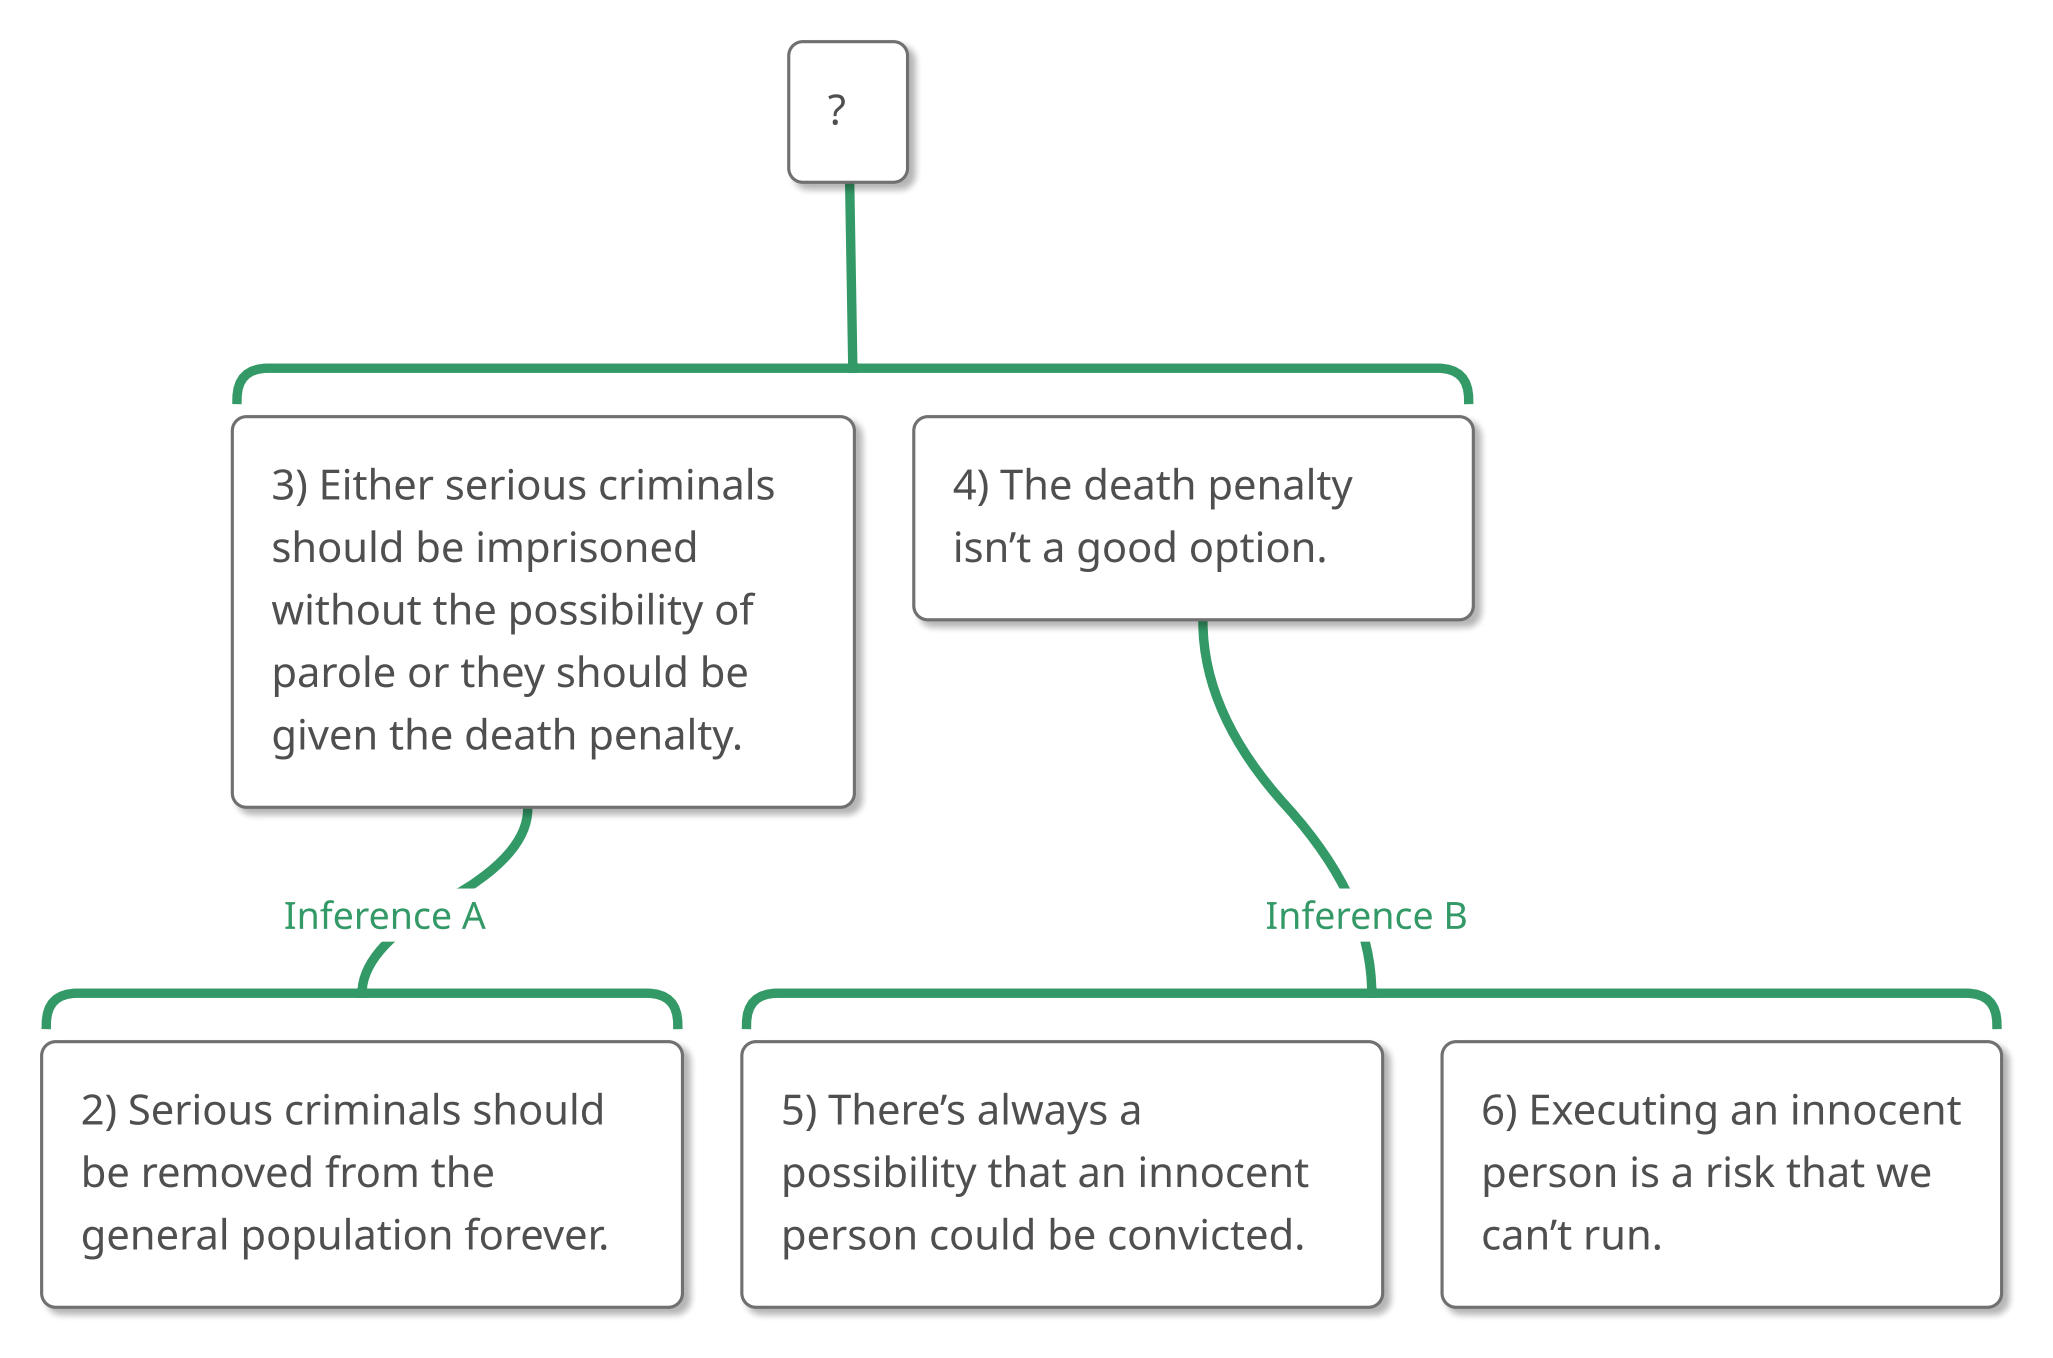
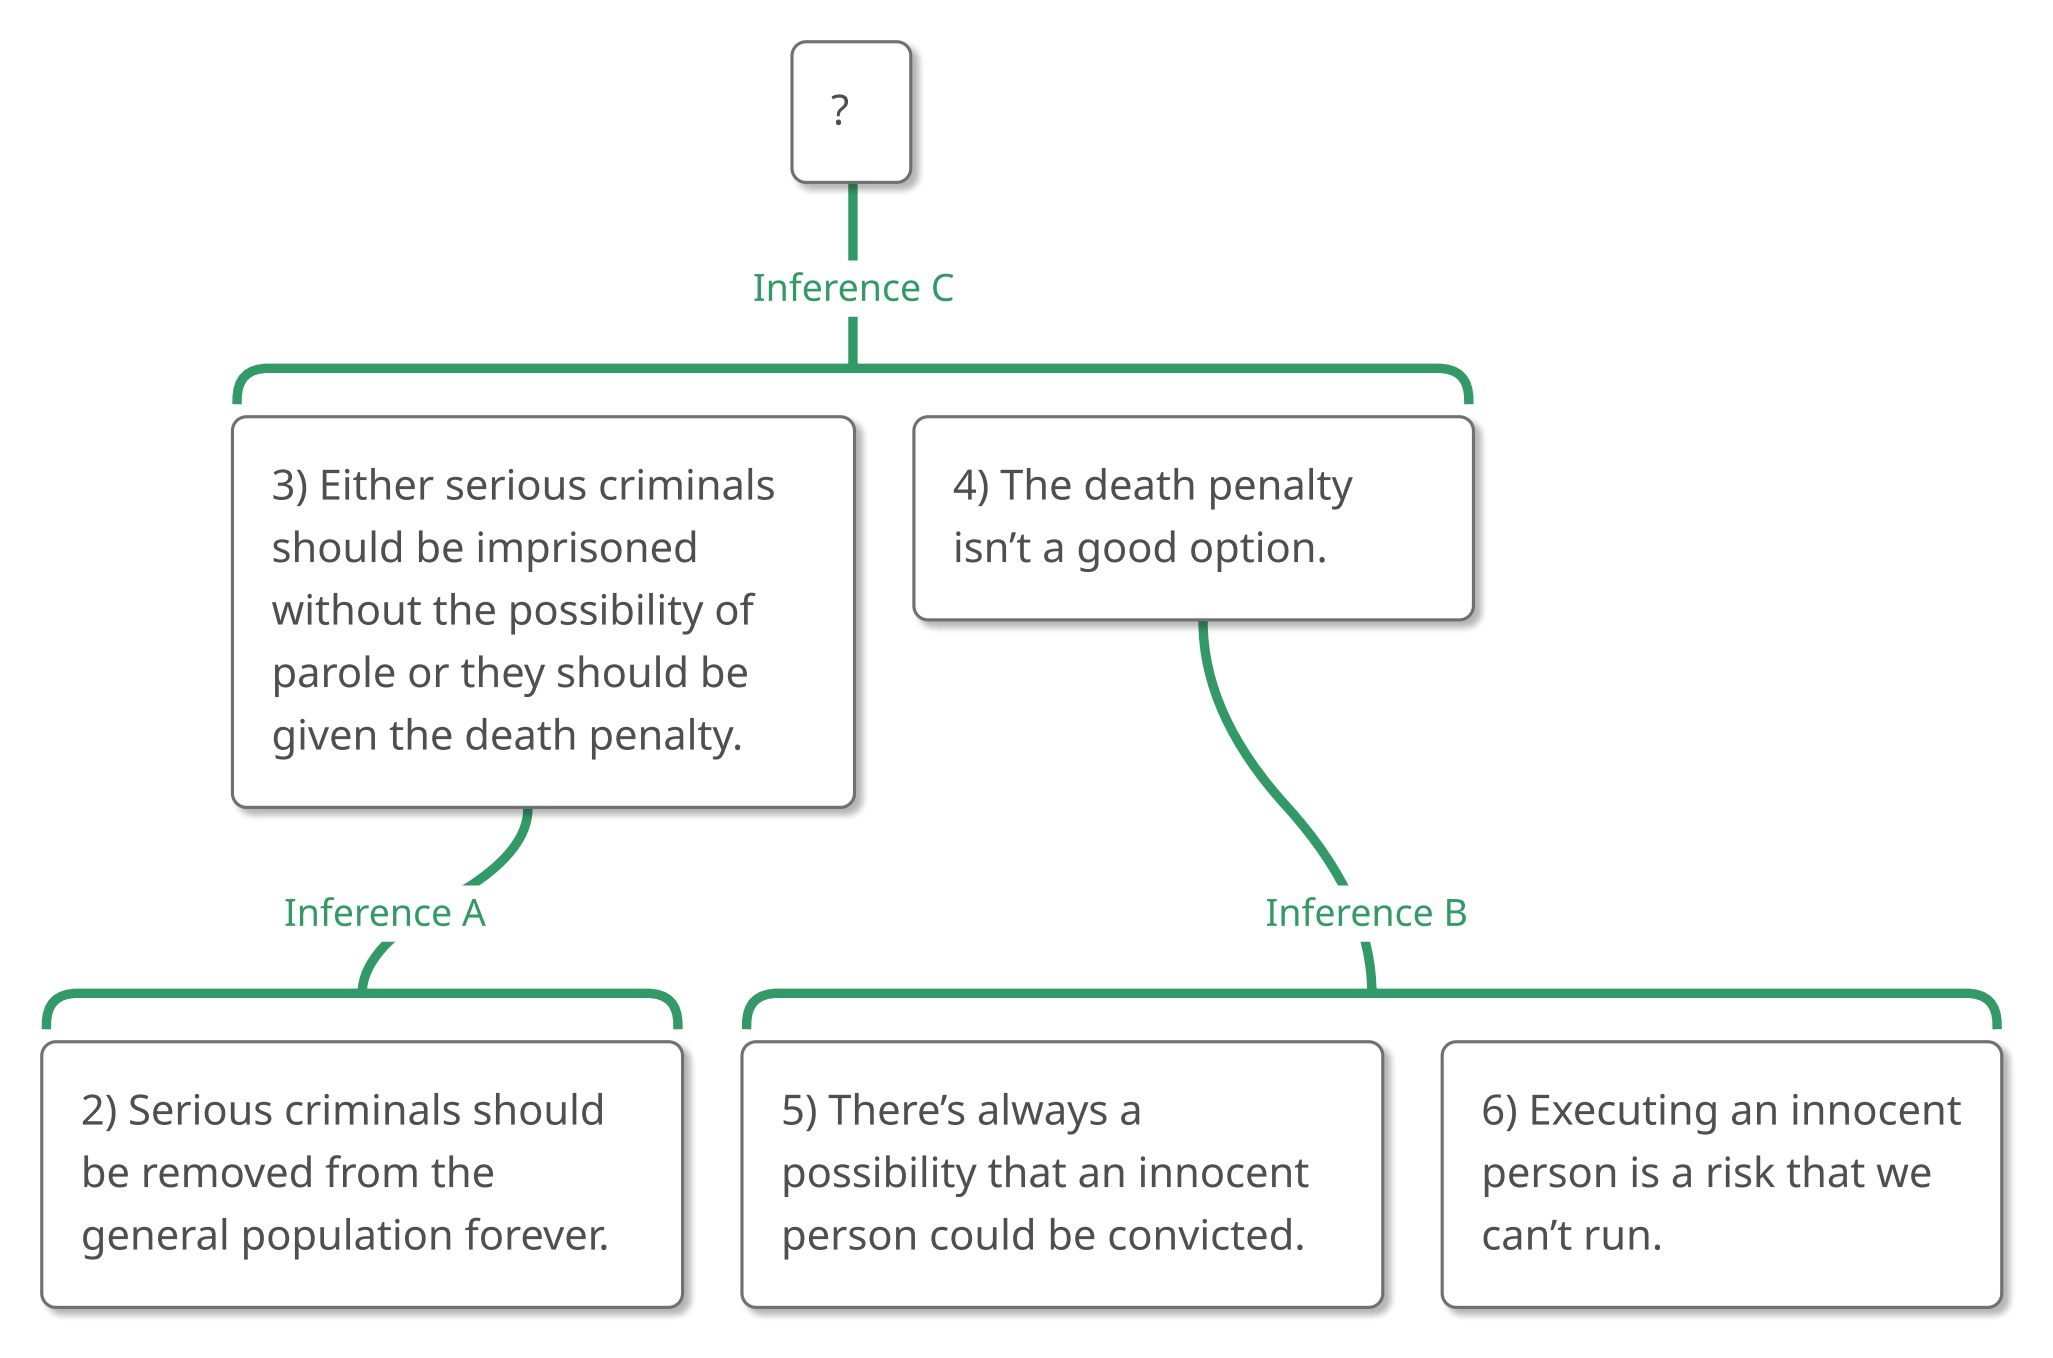
3.7: replace 3and4 and 3and4toC maps (inference now labeled Inference C)
Claude-Session: https://claude.ai/code/session_011rXguHuizkwXCLSx9Ety85

diff --git a/notes/chapter-3-notes.md b/notes/chapter-3-notes.md
@@ -60,6 +60,7 @@ Companion to `textbook-platform-plan.md` (workflow, decisions, conventions). Ent
 - Content fix: Sneak Peek began "Inference B is actually an instance of an inference form", but the Disjunctive Syllogism inference is the not-yet-labeled one that becomes Inference C (Inference B is 5+6→4); now "Inference C is actually…" (Dona's choice, Nov 21; commit b6781fb).
 - Other fixes: Step heading dashes; "Claim 3", "Claims 2 and 3", "Claims 4 and 5", "Claims 5 and 6", "Inference A" capitalized; period moved inside the bold "…component parts."; "if... then..." (spacing as in 3.3–3.5); "there's a "but"" (added "a"); "on that basis" (doubled "that"); comma after the parenthetical "(…forever)," in the Gully question; line breaks → paragraphs; figures moved out of quotations.
 - Checks: render with no warnings; axe 0 violations light/dark, desktop/phone; no sideways scrolling; Word file has the 18 figures in the Chapter 3 appendix (~12.5 MB now). Commit df088a1.
+- Later change (Dona, Nov 26): new Ch3_Ex6_3and4 and _3and4toC (.mup + PDF) label the inference from Claims 3 and 4 "Inference C" (was unlabeled), matching the Sneak Peek's "Inference C is actually…". Images and outlines replaced (still 657px); _3and4 root hand-fixed again to "? (conclusion not yet identified)"; alt text now says "through Inference C". No unlabeled inferences remain in the book. Checks: render with no warnings; axe 0 violations light/dark, desktop/phone; no sideways scrolling.
 
 ## 3.8 Example 7 (Nov 22)
 - Passage: religion a better choice than philosophy for prison education (philosophy encourages critical thinking about goodness, which interferes with becoming good because it leads to endless self-justification; religion gives a moral code). Topics: motivating claims that aren't part of the argument; mapping 2–5 quickly from indicator expressions; making indicator use second nature ("miss the moon"); Comparative Conclusions and the Comparative Conclusion Test for dependent reasons (Bill/Sam heights); dependent reasons far apart violate the Principle of Proximity; tracing an objection to Claim 4 (subconclusion) down to Premise 5 (false) → argument bad as a whole.

diff --git a/outlines/ch03/Ch3_Ex6_3and4toC_list.md b/outlines/ch03/Ch3_Ex6_3and4toC_list.md
@@ -1,5 +1,5 @@
 - Serious criminals should be imprisoned without the possibility of parole.
-    - Inference (not yet labeled)
+    - Inference C
         - 3\) Either serious criminals should be imprisoned without the possibility of parole or they should be given the death penalty.
             - Inference A
                 - 2\) Serious criminals should be removed from the general population forever. (Stopping Point)

diff --git a/outlines/ch03/Ch3_Ex6_3and4_list.md b/outlines/ch03/Ch3_Ex6_3and4_list.md
@@ -1,5 +1,5 @@
 - ? (conclusion not yet identified)
-    - Inference (not yet labeled)
+    - Inference C
         - 3\) Either serious criminals should be imprisoned without the possibility of parole or they should be given the death penalty.
             - Inference A
                 - 2\) Serious criminals should be removed from the general population forever. (Stopping Point)
